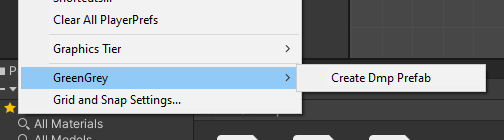
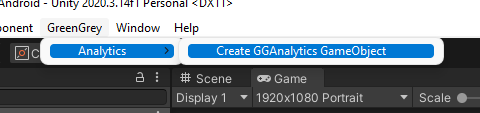
обновленный README.md

diff --git a/README.md b/README.md
@@ -2,7 +2,7 @@
 Библиотека для сбора и отправки событий игровой аналитики в системе DMP.
 
 ## Текущая версия
-1.0.0
+1.1.0
 
 ## 0. Что понадобится для интеграции?
 **analytics_project_key** - ключ идентификации проекта в системе аналитики
@@ -15,15 +15,23 @@
 
 ![Add package to project](/.readme/add_package_from_git.png)
 
-1.2 В открывшемся окне вставьте ссылку https://github.com/GreenGreyStudioOfficial/dmp_unity_library.git#v0.0.9
+1.2 В открывшемся окне вставьте ссылку https://github.com/GreenGreyStudioOfficial/dmp_unity_library.git#1.1.0
 
-1.3 Выберите пункт меню Edit → GreenGrey → Create Dmp Prefab.
+1.3 Выберите пункт меню GreenGrey → Analytics → Create GGAnalytics GameObject.
 
 ![Add asset](/.readme/add_asset.png)
 
-Это создаст в текущей сцене объект DmpAnalytics, управляющий отправкой аналитики на сервер. 
+Это создаст в текущей сцене объект GGAnalytics, управляющий отправкой аналитики на сервер. 
 
-1.4 В свойствах объекта DmpAnalytics укажите свой **analytics_project_key** - ключ идентификации проекта в системе аналитики.
+1.4 В свойствах объекта GGAnalytics укажите свой **analytics_project_key** - ключ идентификации проекта в системе аналитики.
+
+- DebugApiKey - ключ аналитики для отправки событий при разработке/тестировании приложения.
+- AndroidApiKey - ключ аналитики для отправки событий релизной версии android приложения.
+- IosApiKey - ключ аналитики для отправки событий релизной версии ios приложения.
+
+> Важно: заполнение полей DebugApiKey, AndroidApiKey и IosApiKey обязательно. Ключи могут содержать одно и то же значение, но желательно разделять тестовое и релизное окружение во избежании засорения актуальных данных тестовыми событиям.
+
+> DebugApiKey используется всегда при активном DebugMode. При сборке релизного приложения, для использования соответствующих релизных ключей, его необходимо отключать. 
 
 Также здесь можно поменять управлять настройками библиотеки аналитики:
 
@@ -31,15 +39,25 @@
 
 **Api Uri** - адрес бэкенда статистики (не менять)
 
-**Api Key** - ключ идентификации проекта в системе аналитики
+**Debug Mode** - синализирует что нужно отправлять события только по DebugApiKey ключу.
+
+**Debug Api Key** - ключ аналитики для отправки событий при разработке/тестировании приложения.
+
+**Android Api Key** - ключ аналитики для отправки событий релизной версии android приложения.
+
+**Ios Api Key** - ключ аналитики для отправки событий релизной версии ios приложения.
 
 **Max Events Count To Send** - количество событий, после которых произойдет отправка на сервер статистики.
 
 **Send Events Timeout In Sec** - таймаут, после которого события будут отправлены на сервер, даже если не достигнуто максимальное количество.
 
-**Debug Mode** - включает отладочное логирование
-
 **Register App Pause** - добавлять или нет событие APP_ENABLE (при отладке в редакторе)
+
+**Log Level** - уровень логирования в Unity console:
+- DEBUG - логировать все сообщения
+- WARNING - логировать сообщения уровня WARNING и ERROR
+- ERROR - логировать только сообщения уровня ERROR
+- OFF - выключение логирования
 
 
 ## 2. Использование
@@ -81,7 +99,7 @@ DmpAnalytics.Instance.LogPurchase("USD", 0.99f, new Dictionary<string, object>
 Для трекинга событий используйте метод LogEvent:
 
 ```
-void LogCustomEvent(string _eventName, Dictionary<string, object> _eventParams = null);
+void LogEvent(string _eventName, Dictionary<string, object> _eventParams = null);
 ```
 
 где:
@@ -92,7 +110,7 @@ _eventParams  - произвольные дополнительные парам
 
 Пример:
 ```
-DmpAnalytics.Instance.LogCustomEvent("SCENE_OPEN", new Dictionary<string, object>
+DmpAnalytics.Instance.LogEvent("SCENE_OPEN", new Dictionary<string, object>
 {
    {"scene_index", currentSceneIndex},
    {"scene_name", SceneManager.GetActiveScene().name}
